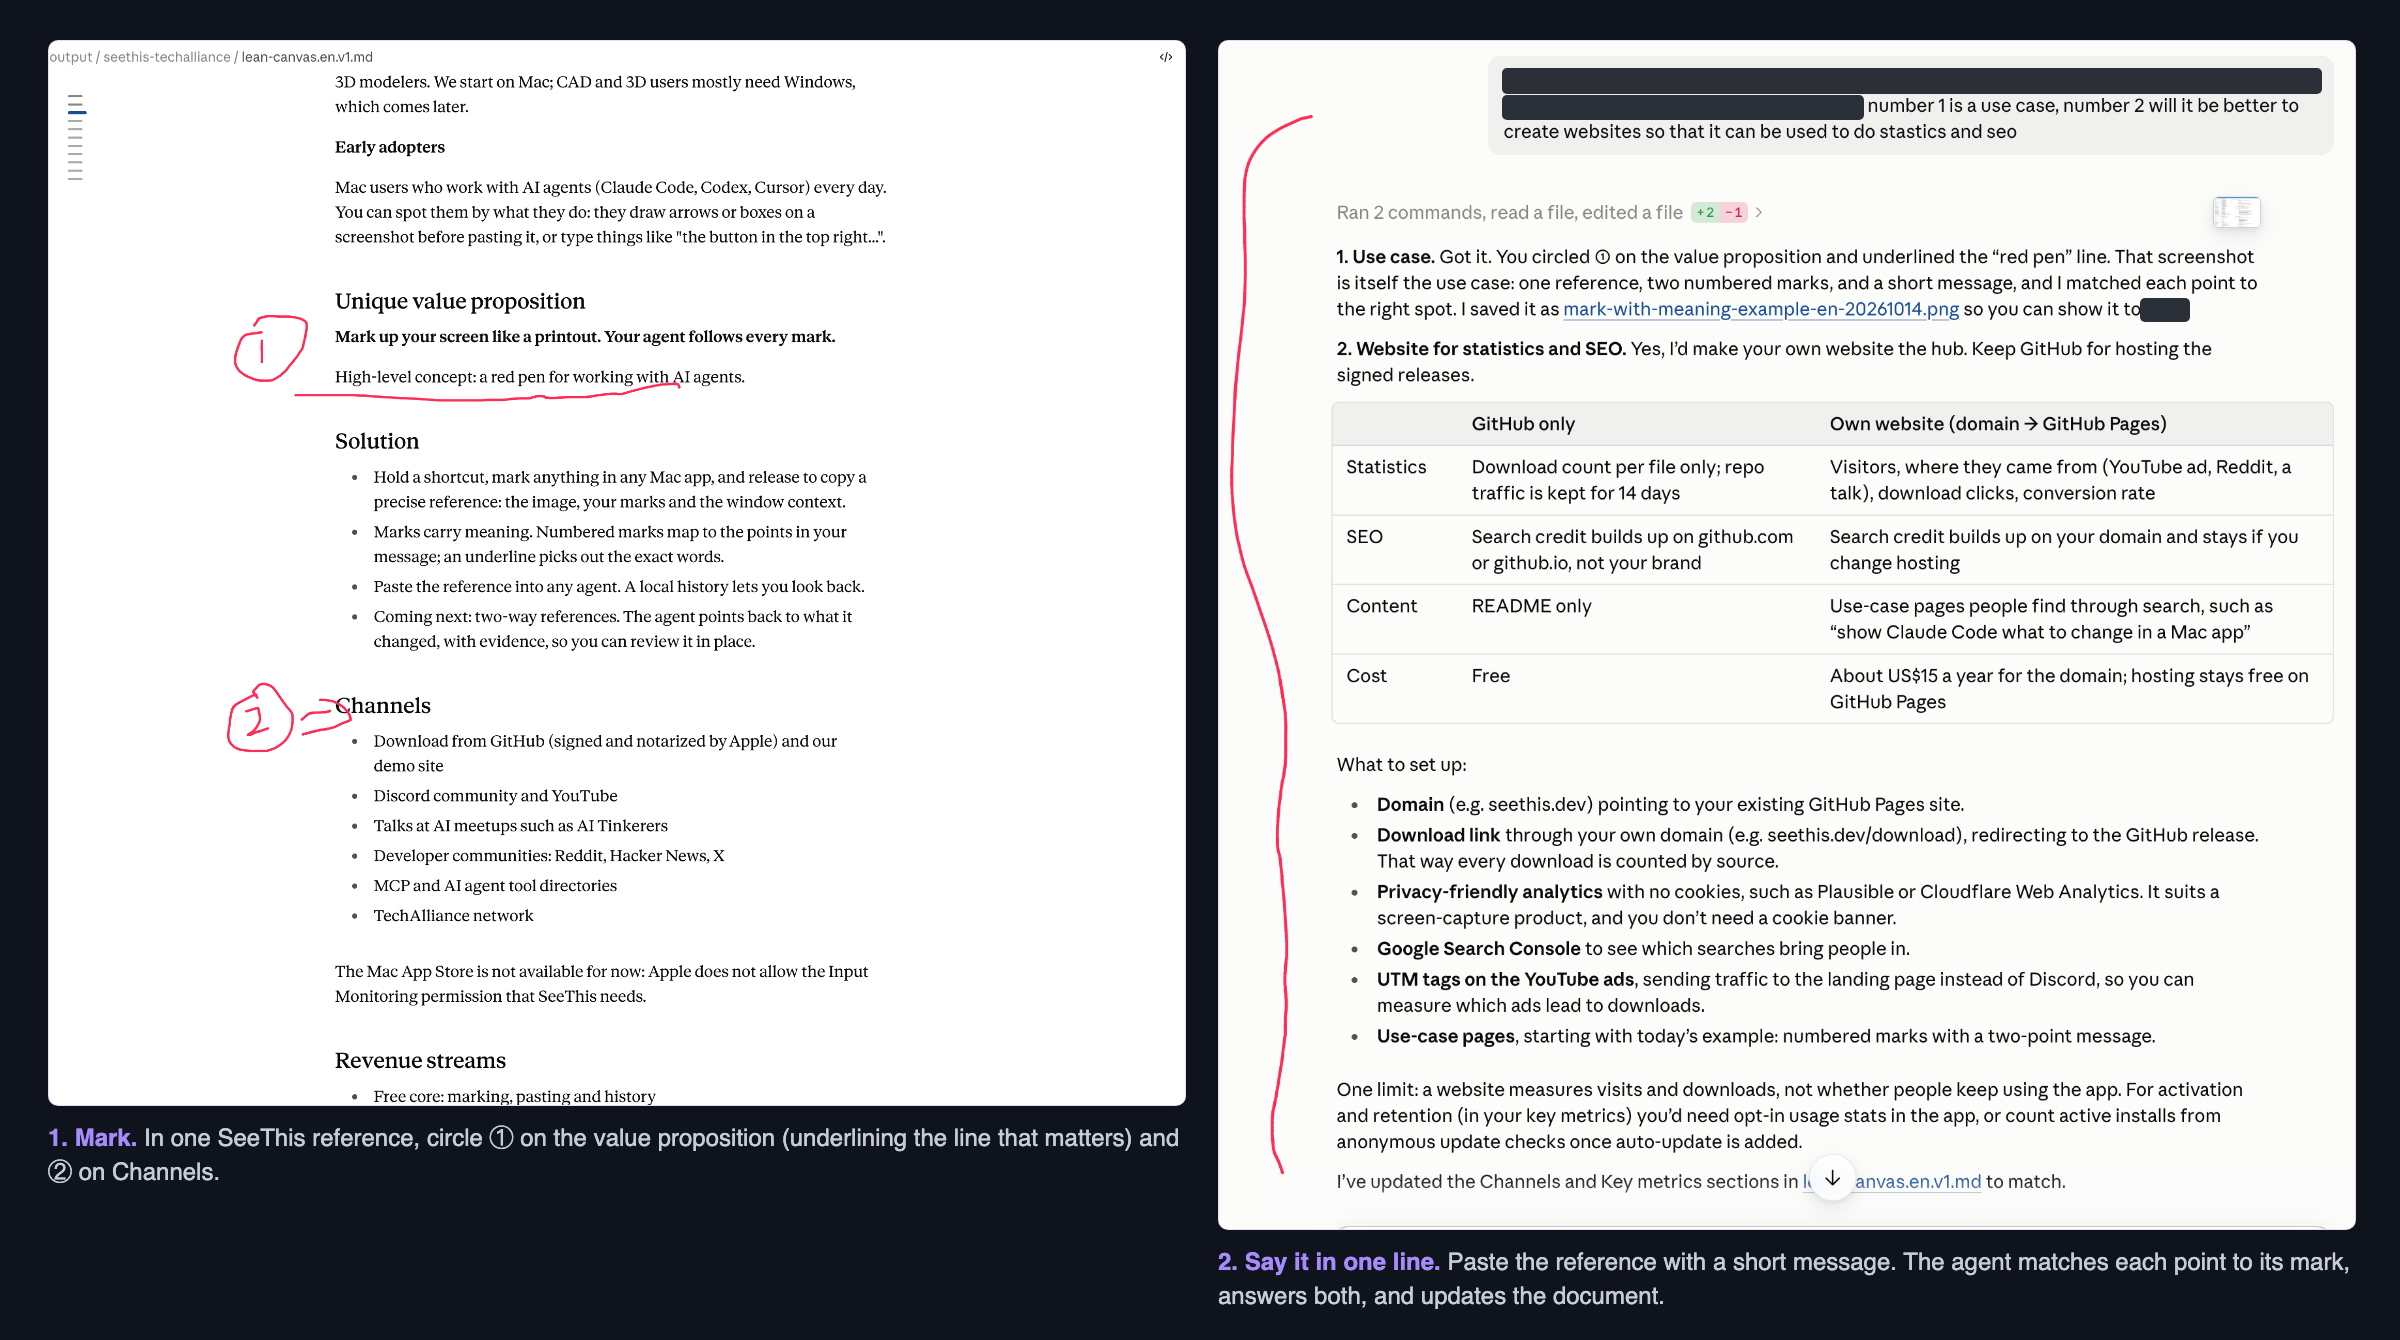
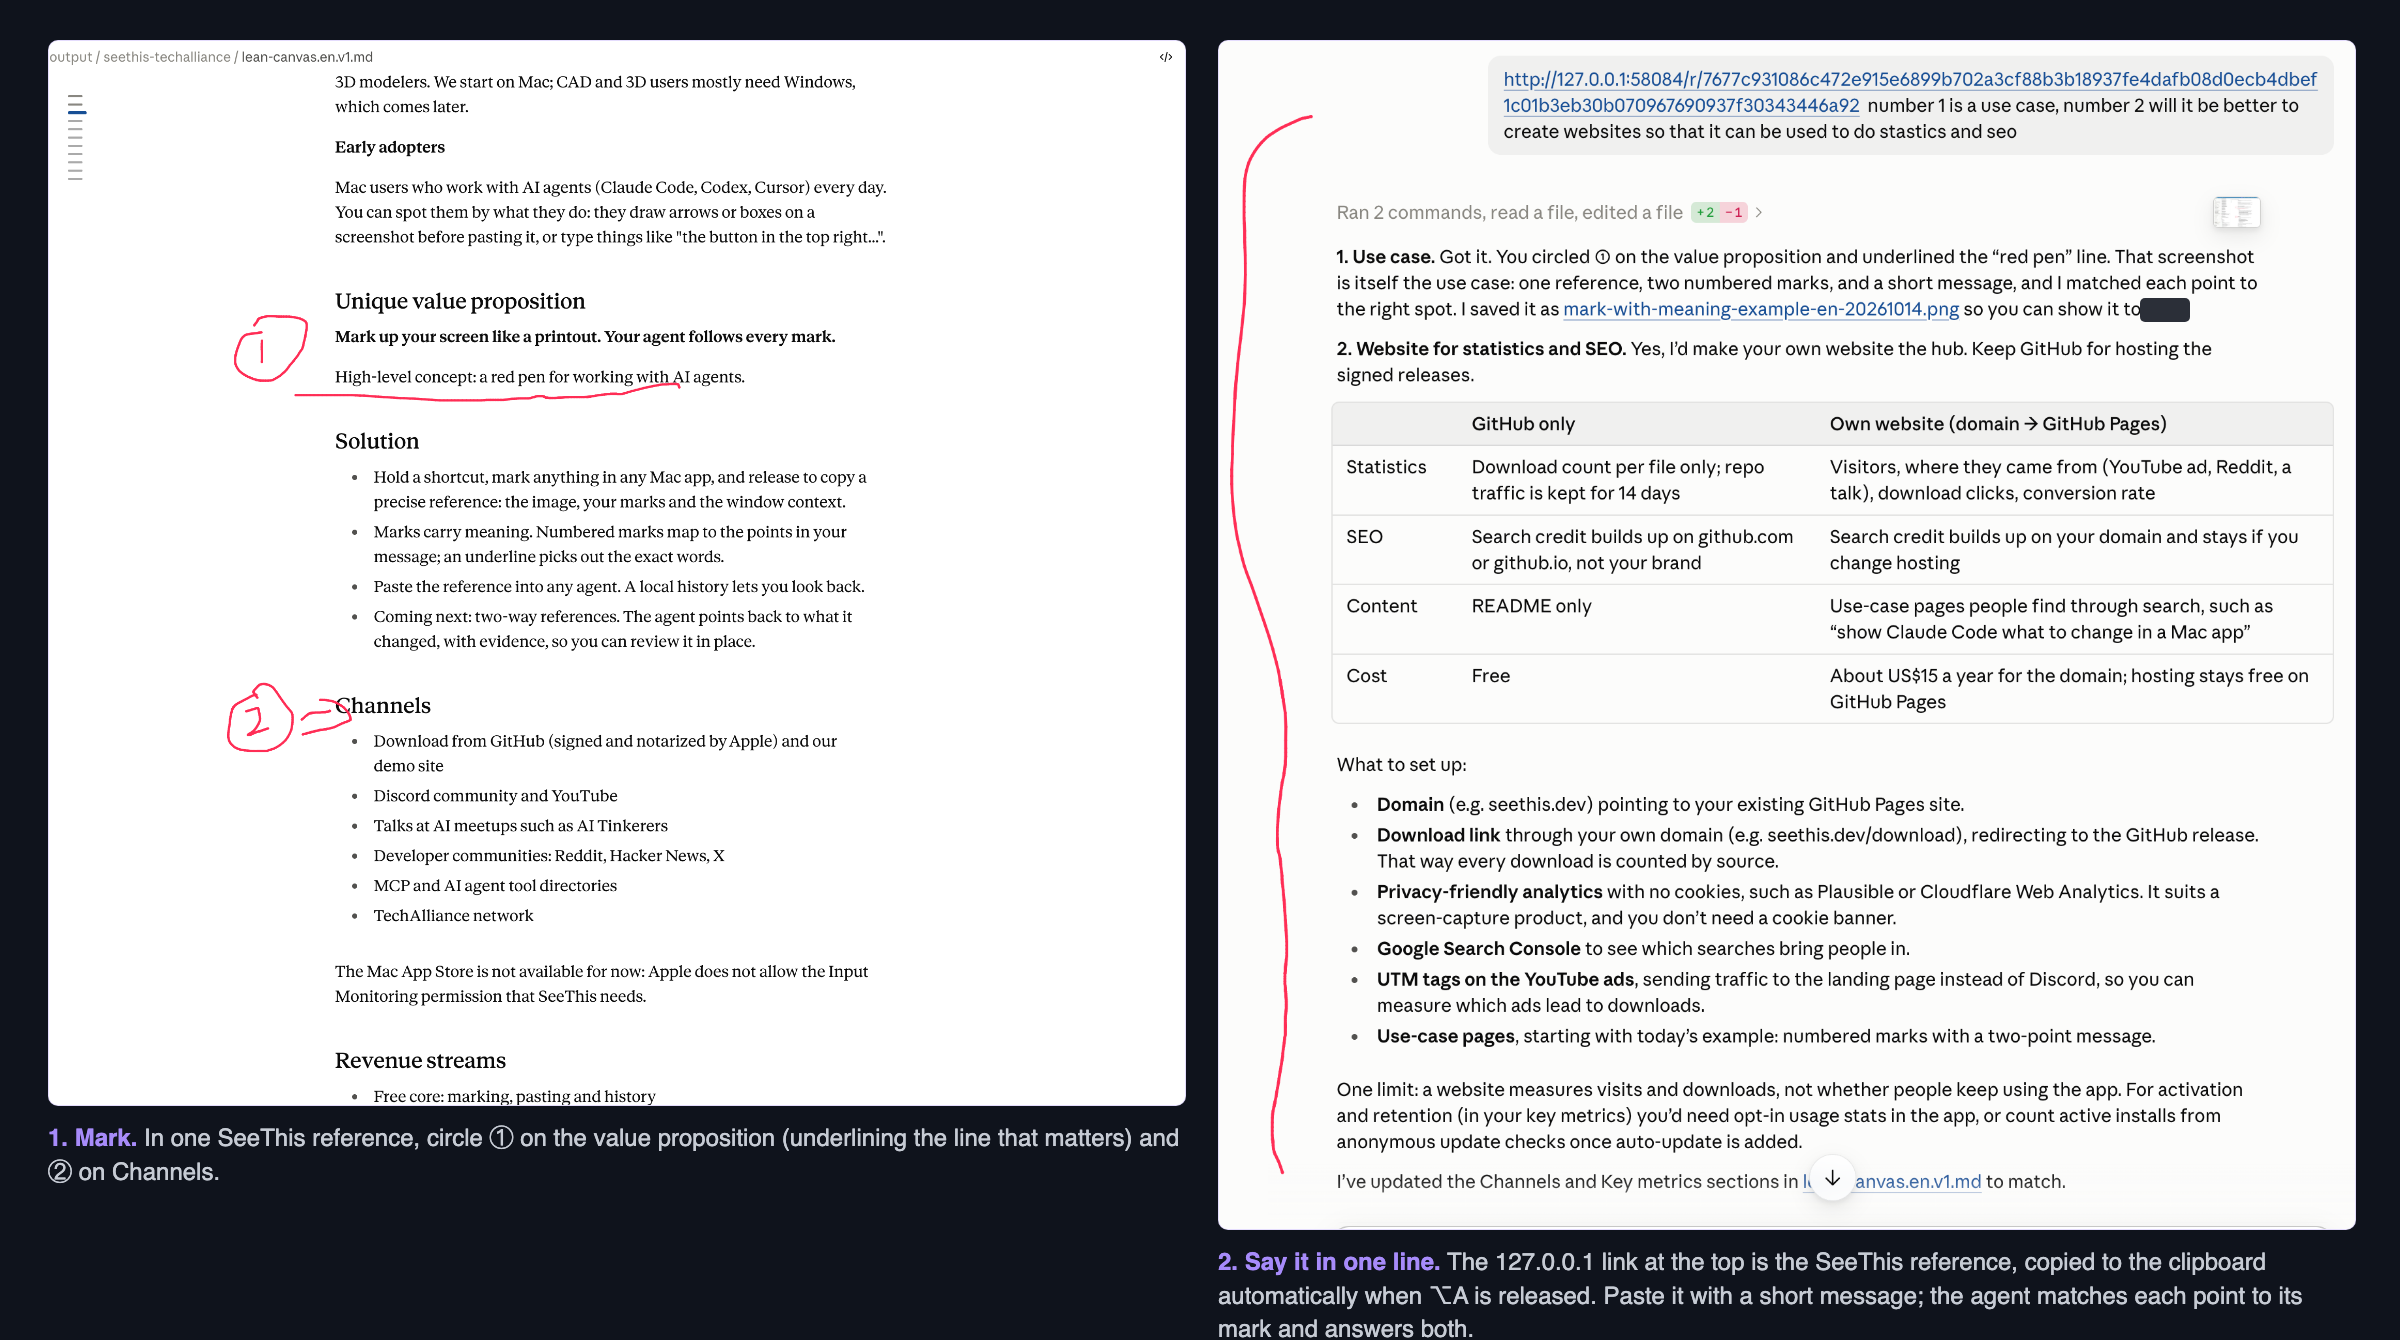
Show the reference link unredacted and explain it is copied to the clipboard on release
The 127.0.0.1 link only works on the same Mac, so it can stay visible. Only the third party's name remains redacted.

Changed region(s): [[0.5, 0.9179, 0.9688, 1.0], [0.625, 0.0306, 0.9688, 0.0918]]

diff --git a/use-cases/numbered-marks/index.html b/use-cases/numbered-marks/index.html
@@ -13,7 +13,7 @@
   <meta property="og:url" content="https://seethis.dev/use-cases/numbered-marks/">
   <meta property="og:image" content="https://seethis.dev/assets/og.png">
   <meta name="twitter:card" content="summary_large_image">
-  <link rel="stylesheet" href="/assets/site.css?v=4">
+  <link rel="stylesheet" href="/assets/site.css?v=5">
   <script type="application/ld+json">
   {
     "@context": "https://schema.org",
@@ -23,7 +23,7 @@
     "step": [
       { "@type": "HowToStep", "text": "Hold Option+A to turn on marking, then drag with the mouse or trackpad to circle the first spot and write 1 next to it." },
       { "@type": "HowToStep", "text": "Keep holding Option+A, circle the second spot and write 2 next to it." },
-      { "@type": "HowToStep", "text": "Release Option+A and paste the reference into your agent." },
+      { "@type": "HowToStep", "text": "Release Option+A. The reference link is copied to the clipboard automatically; paste it into your agent." },
       { "@type": "HowToStep", "text": "Send one short message that refers to 1 and 2." }
     ]
   }
@@ -55,13 +55,13 @@
     <ol>
       <li>Held <kbd>⌥</kbd> <kbd>A</kbd> to turn on marking, then dragged with the left mouse button to circle the sentence, wrote <strong>1</strong> next to it and underlined the exact words.</li>
       <li>Still holding <kbd>⌥</kbd> <kbd>A</kbd>, circled the second section and wrote <strong>2</strong>, so both marks went into the same reference.</li>
-      <li>Released <kbd>⌥</kbd> <kbd>A</kbd> and pasted the reference into the agent with one line:</li>
+      <li>Released <kbd>⌥</kbd> <kbd>A</kbd>. SeeThis copied the reference link to the clipboard automatically, so I pasted it into the agent with one line:</li>
     </ol>
     <div class="quote">number 1 is a use case, number 2 will it be better to create websites so that it can be used to do statistics and seo</div>
     <p>The agent matched point 1 to the first mark and point 2 to the second, answered both, and updated the document. It did not need me to explain where either spot was.</p>
     <figure class="shot">
-      <a href="/assets/use-case-numbered-marks.png"><img src="/assets/use-case-numbered-marks.png" width="2400" height="1340" loading="lazy" alt="Left: a document with a hand-drawn circle 1 on the value proposition and circle 2 on Channels. Right: the one-line message and the agent's reply addressing point 1 and point 2 separately."></a>
-      <figcaption>A real session from October 14, 2026. The local reference link and a third party's name are redacted.</figcaption>
+      <a href="/assets/use-case-numbered-marks.png"><img src="/assets/use-case-numbered-marks.png" width="2400" height="1340" loading="lazy" alt="Left: a document with a hand-drawn circle 1 on the value proposition and circle 2 on Channels. Right: the pasted SeeThis reference link, the one-line message, and the agent's reply addressing point 1 and point 2 separately."></a>
+      <figcaption>A real session from October 14, 2026. The 127.0.0.1 link is the SeeThis reference, copied to the clipboard automatically when ⌥A is released; it only works on this Mac. A third party's name is redacted.</figcaption>
     </figure>
 
     <h2>Why it works</h2>

diff --git a/index.html b/index.html
@@ -23,7 +23,7 @@
   <meta name="twitter:description" content="Mark up your screen like a printout. Your agent follows every mark.">
   <meta name="twitter:image" content="https://seethis.dev/assets/og.png">
 
-  <link rel="stylesheet" href="/assets/site.css?v=4">
+  <link rel="stylesheet" href="/assets/site.css?v=5">
 
   <script type="application/ld+json">
   {
@@ -97,7 +97,7 @@
           <div class="card">
             <span class="step-num">2</span>
             <h3>Release to get a reference</h3>
-            <p>Release <kbd>⌥</kbd> <kbd>A</kbd> to finish. A local reference URL is copied right away for agents on the same Mac, such as Claude Code or Codex. For web chats, copy the marked image from Inspector.</p>
+            <p>Release <kbd>⌥</kbd> <kbd>A</kbd> to finish. A local reference link is copied to your clipboard automatically, ready for agents on the same Mac, such as Claude Code or Codex. For web chats, copy the marked image from Inspector.</p>
           </div>
           <div class="card">
             <span class="step-num">3</span>
@@ -118,8 +118,8 @@
           </div>
         <p><a href="/use-cases/numbered-marks/">Read the full use case →</a></p>
         <figure class="shot">
-          <a href="/assets/use-case-numbered-marks.png"><img src="/assets/use-case-numbered-marks.png" width="2400" height="1340" loading="lazy" alt="Left: a document with a hand-drawn circle 1 on the value proposition and circle 2 on Channels. Right: the one-line message and the agent's reply addressing point 1 and point 2 separately."></a>
-          <figcaption>A real session from October 14, 2026. The local reference link and a third party's name are redacted.</figcaption>
+          <a href="/assets/use-case-numbered-marks.png"><img src="/assets/use-case-numbered-marks.png" width="2400" height="1340" loading="lazy" alt="Left: a document with a hand-drawn circle 1 on the value proposition and circle 2 on Channels. Right: the pasted SeeThis reference link, the one-line message, and the agent's reply addressing point 1 and point 2 separately."></a>
+          <figcaption>A real session from October 14, 2026. The 127.0.0.1 link is the SeeThis reference, copied to the clipboard automatically when ⌥A is released; it only works on this Mac. A third party's name is redacted.</figcaption>
         </figure>
       </div>
     </section>

diff --git a/download/index.html b/download/index.html
@@ -8,7 +8,7 @@
   <meta name="robots" content="noindex">
   <link rel="canonical" href="https://seethis.dev/download/">
   <link rel="icon" href="/assets/icon.svg" type="image/svg+xml">
-  <link rel="stylesheet" href="/assets/site.css?v=4">
+  <link rel="stylesheet" href="/assets/site.css?v=5">
   <!-- Fallback redirect if JavaScript is off. Kept slower than the script so analytics can record the visit first. -->
   <meta http-equiv="refresh" content="3; url=https://github.com/amingclawdev/seethis/releases/download/v0.1.1-beta.1/SeeThis-0.1.1-beta.1-macos-arm64-release.dmg">
 </head>

diff --git a/404.html b/404.html
@@ -6,7 +6,7 @@
   <title>Page not found | SeeThis</title>
   <meta name="robots" content="noindex">
   <link rel="icon" href="/assets/icon.svg" type="image/svg+xml">
-  <link rel="stylesheet" href="/assets/site.css?v=4">
+  <link rel="stylesheet" href="/assets/site.css?v=5">
 </head>
 <body>
   <main class="wrap article">
